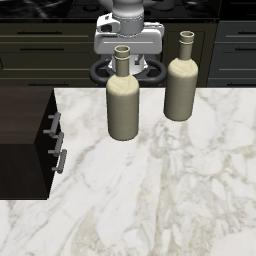
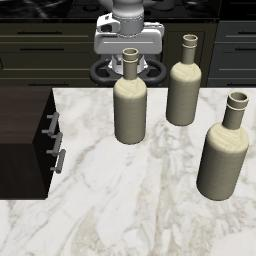
add objects

diff --git a/notebooks/new_bddl.py b/notebooks/new_bddl.py
@@ -113,7 +113,7 @@ class KitchenDemoScene(InitialSceneTemplates):
         }
 
         object_num_info = {
-            "libero_mug": 1,
+            "libero_mug": 2,
             "libero_mug_yellow": 1,
         }
 
@@ -142,6 +142,15 @@ class KitchenDemoScene(InitialSceneTemplates):
                 region_half_len=0.025,
             )
         )
+        
+        self.regions.update(
+            self.get_region_dict(
+                region_centroid_xy=[0.2, 0.2],
+                region_name="libero_mug_init_region_2",
+                target_name=self.workspace_name,
+                region_half_len=0.025,
+            )
+        )
 
         self.regions.update(
             self.get_region_dict(
@@ -159,6 +168,7 @@ class KitchenDemoScene(InitialSceneTemplates):
     def init_states(self):
         states = [
             ("On", "libero_mug_1", "kitchen_table_libero_mug_init_region"),
+            ("On", "libero_mug_2", "kitchen_table_libero_mug_init_region_2"),
             ("On", "libero_mug_yellow_1", "kitchen_table_libero_mug_yellow_init_region"),
             ("On", "wooden_cabinet_1", "kitchen_table_wooden_cabinet_init_region"),
         ]
